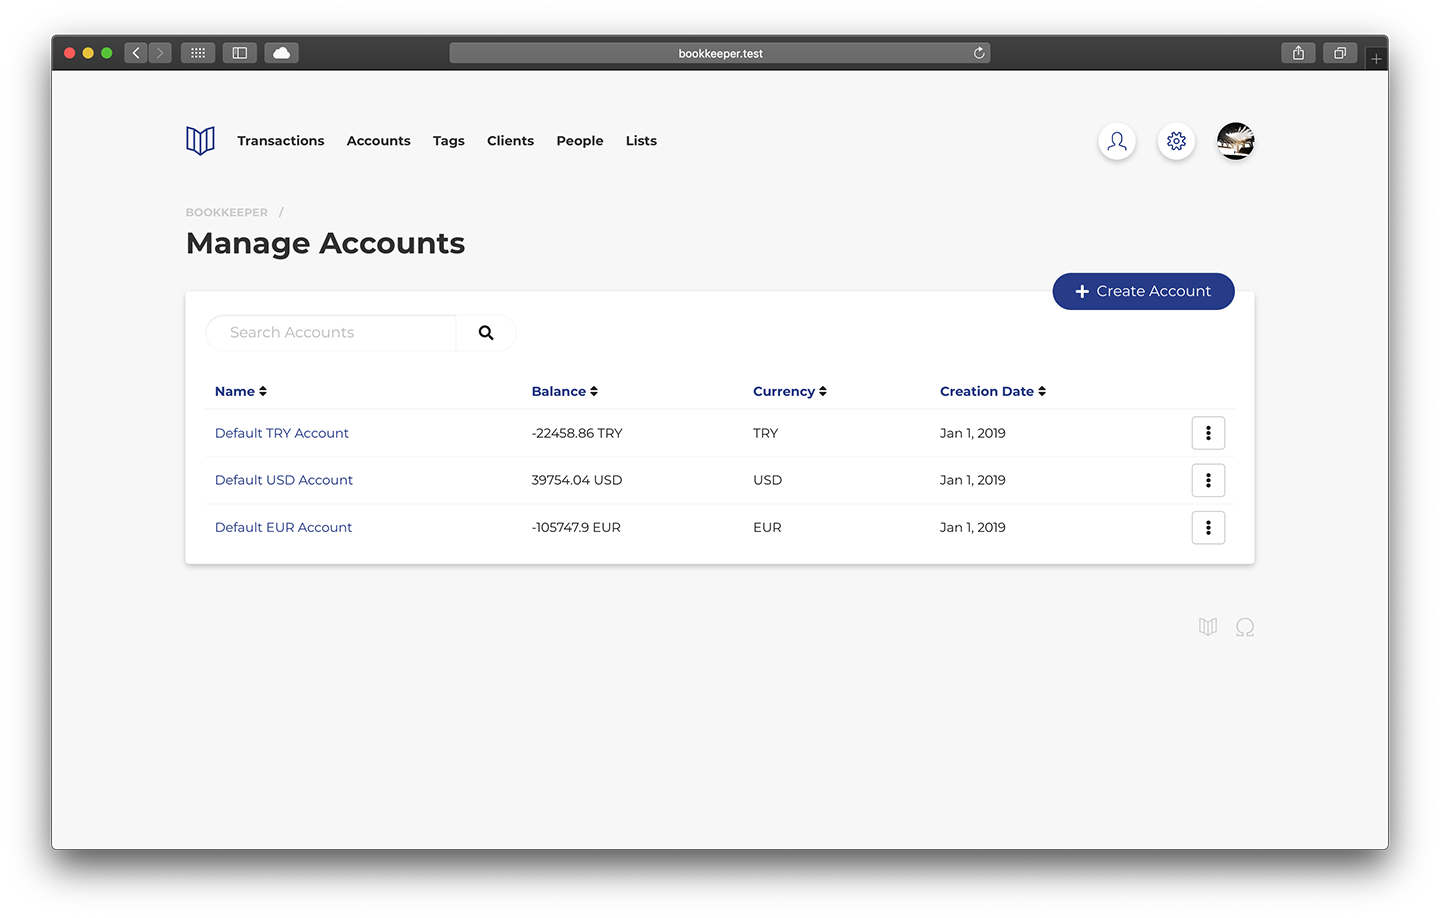
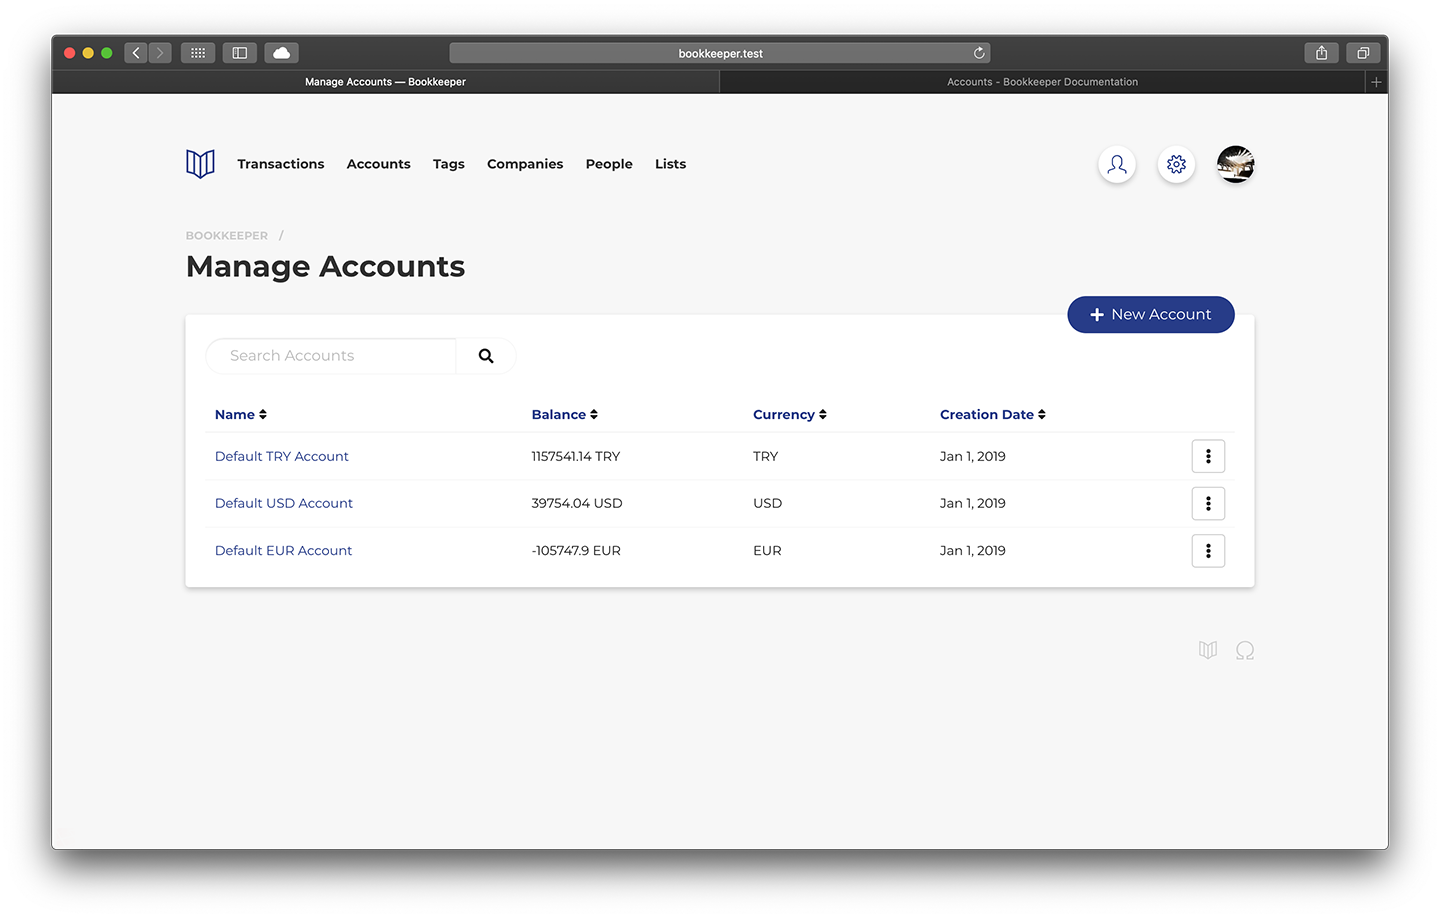
Updates some images and documentation

diff --git a/users-guide/companies.md b/users-guide/companies.md
@@ -1,0 +1,47 @@
+---
+layout: default
+title: Companies
+parent: User's Guide
+nav_order: 4
+permalink: /users-guide/companies
+---
+
+# Managing Companies
+{:.no_toc}
+
+## Table of contents
+{: .no_toc .text-delta }
+
+1. TOC
+{:toc}
+
+---
+
+You can create, update and delete companies.
+{: .fs-6 .fw-300 }
+
+## Listing Companies
+To list all available companies go to *Companies* from the main navigation menu.
+
+![Companies List]({{ "/assets/images/companies-list.png" | absolute_url }})
+
+## Creating Companies
+To create a company go to *Companies* from the main navigation menu and use the **New Company** button.
+
+![Create Company]({{ "/assets/images/create-company.png" | absolute_url }})
+
+## Updating Companies
+To update a company select a company from the companies list. By default the company shows jobs and people that are assigned to them. The information about the company can be accessed from the **Company** tab.
+
+![People For Companies]({{ "/assets/images/company-people-edit.png" | absolute_url }})
+![Update Company]({{ "/assets/images/update-company.png" | absolute_url }})
+
+## Deleting Companies
+To delete a company use the dropdown options menu from the companies list.
+
+![Delete Company]({{ "/assets/images/companies-list.png" | absolute_url }})
+
+## Exporting Companies
+To export companies use the dropdown export menu from the companies list.
+
+![Export Companies]({{ "/assets/images/export-transactions.png" | absolute_url }})
